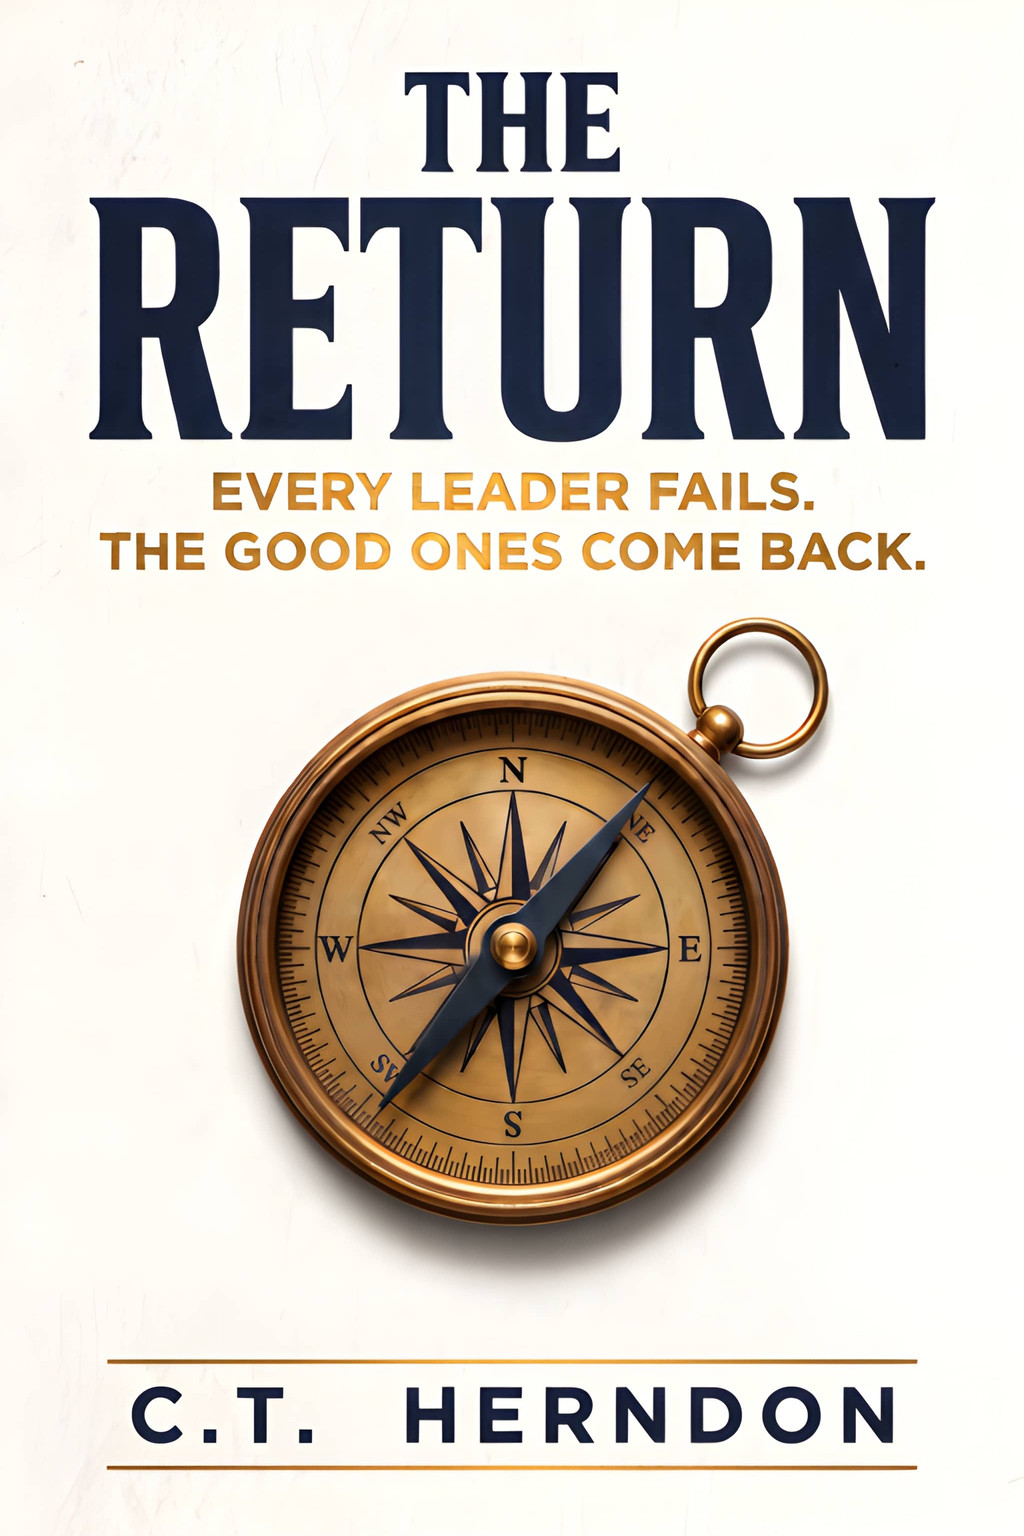
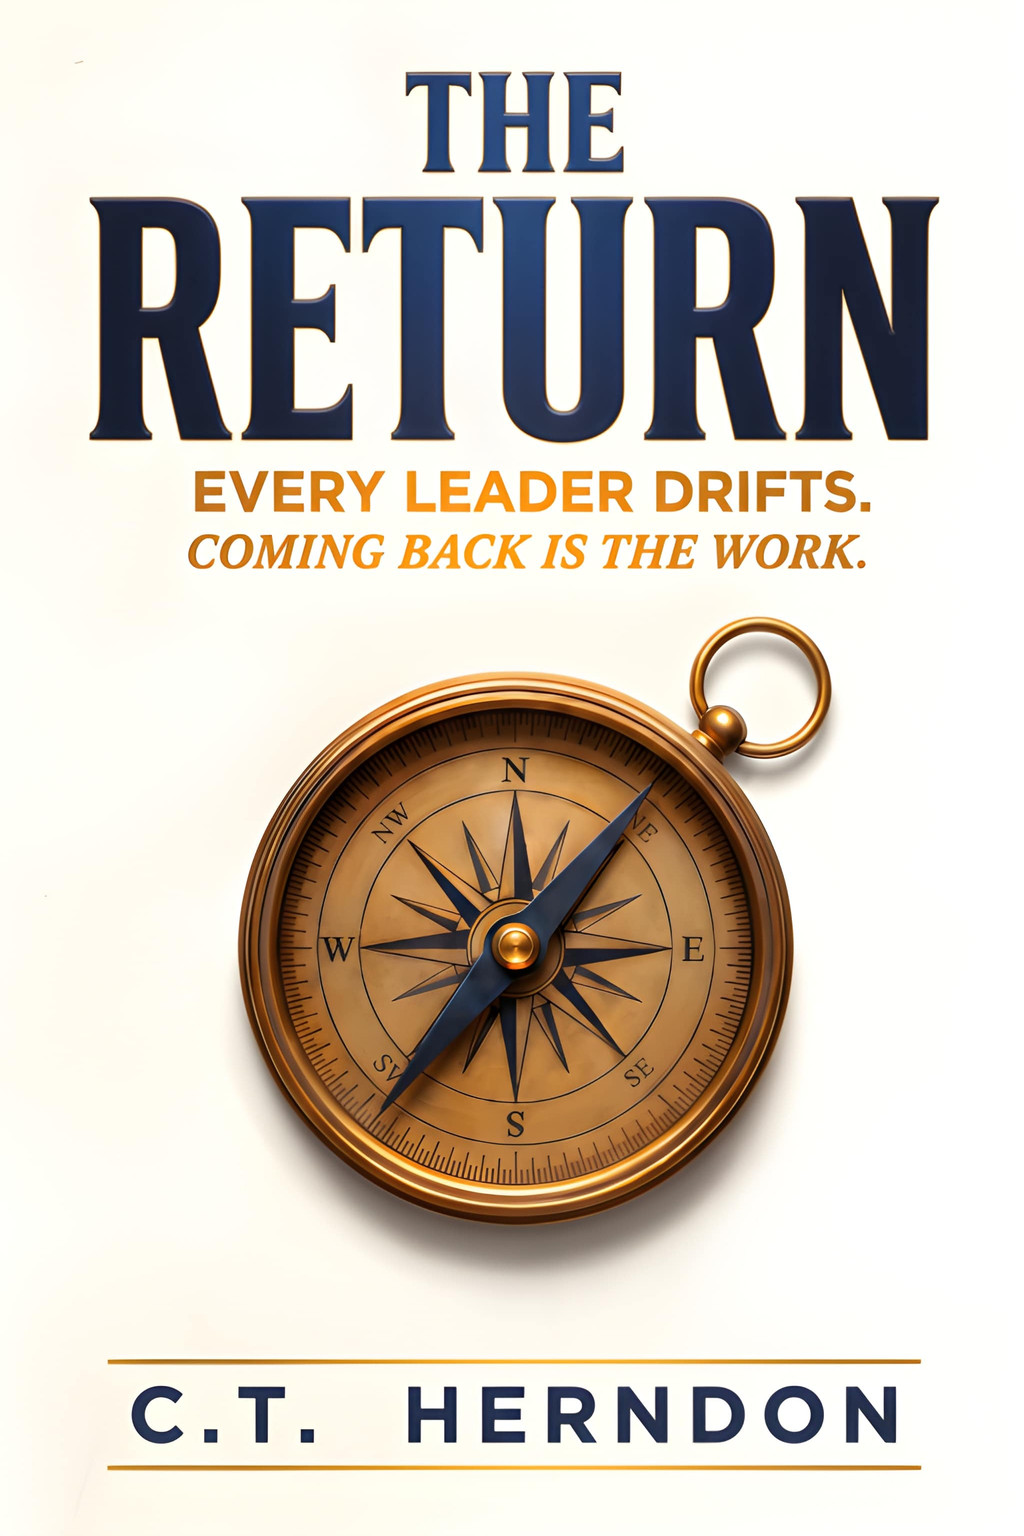
The Return: every leader drifts, and coming back is the work
OPERATOR, 2026-10-08. The subtitle changed with the final cover art. "Every Leader Fails. The Good
Ones Come Back." becomes "Every Leader Drifts. Coming Back Is the Work." His reasoning, recorded in
the book repository: "fails" was too big a word for a title, drift is the condition the whole series
argues is universal, and the return is the work.

FIVE PLACES ON THE PAGE: the hero line, the page description, the Open Graph title, the cover alt
text, and the guard, which now also fails if the retired subtitle ever reappears.

THE COVER is the book repository's committed front_art_2026-10-08.jpg, 2048 x 3068 and full colour,
downscaled to this site's 1024 x 1536. Checked visually after installing: the second line reads
COMING BACK IS THE WORK in italic, as on the printed cover. The 7 October cover is archived rather
than overwritten.

THE SUBTITLE WAS NOT THE ONLY THING THAT MOVED, and this is the part worth recording. The same
commit in the book rewrote its thesis sentence: "honest enough to fail in plain sight" became
"honest enough to name their own drift in plain sight". This page quotes that sentence twice, in
"What it argues" and in the social description, so both would have misquoted the book from today
while looking entirely correct. Corrected, and then every quotation on the page was checked against
the current built manuscript: all five appear verbatim.

THAT RISK IS STRUCTURAL AND WILL RECUR. This page quotes a living document maintained in another
[…]

Changed region(s): [[0.0938, 0.0312, 0.9375, 0.8125], [0.375, 0.9062, 0.875, 0.9688], [0.125, 0.875, 0.2812, 0.9688]]

diff --git a/app/the-return/page.tsx b/app/the-return/page.tsx
@@ -24,11 +24,11 @@ import type { Metadata } from "next";
 export const metadata: Metadata = {
   title: "The Return",
   description:
-    "The Return: Every Leader Fails. The Good Ones Come Back. A book on leadership by C.T. Herndon, drawn from the first three volumes of A Living Philosophy.",
+    "The Return: Every Leader Drifts. Coming Back Is the Work. A book on leadership by C.T. Herndon, drawn from the first three volumes of A Living Philosophy.",
   openGraph: {
-    title: "The Return: Every Leader Fails. The Good Ones Come Back.",
+    title: "The Return: Every Leader Drifts. Coming Back Is the Work.",
     description:
-      "A book on leadership by C.T. Herndon. Not an infallible leader, but a real one, honest enough to fail in plain sight and disciplined enough to return.",
+      "A book on leadership by C.T. Herndon. Not an infallible leader, but a real one, honest enough to name their own drift in plain sight and disciplined enough to return.",
     type: "book",
   },
 };
@@ -45,7 +45,7 @@ export default function TheReturn() {
             The Return
           </h1>
           <p className="mt-4 font-serif text-xl font-light leading-relaxed text-ink sm:text-2xl">
-            Every leader fails. The good ones come back.
+            Every leader drifts. Coming back is the work.
           </p>
           <p className="mt-6 max-w-xl leading-relaxed text-muted">
             A book about what a team is actually watching: whether you turn up when
@@ -63,7 +63,7 @@ export default function TheReturn() {
           <div className="relative aspect-[2/3] overflow-hidden rounded-xl border border-line shadow-md">
             <Image
               src="/the-return/cover.jpg"
-              alt="Cover of The Return: Every Leader Fails. The Good Ones Come Back., by C.T. Herndon"
+              alt="Cover of The Return: Every Leader Drifts. Coming Back Is the Work., by C.T. Herndon"
               fill
               sizes="(max-width: 640px) 224px, 280px"
               className="object-cover"
@@ -78,7 +78,8 @@ export default function TheReturn() {
         <p className="mt-4 max-w-2xl font-serif text-xl font-light leading-relaxed text-ink">
           Good leadership is a whole person meeting a whole team, in small, real
           acts carried daily. Not an infallible leader, but a real one, honest
-          enough to fail in plain sight and disciplined enough to return.
+          enough to name their own drift in plain sight and disciplined enough to
+          return.
         </p>
         <p className="mt-5 max-w-2xl leading-relaxed text-muted">
           Fourteen chapters move from the compass a leader steers by to what they

diff --git a/tests/test_books_first.py b/tests/test_books_first.py
@@ -862,7 +862,10 @@ def test_the_return_has_its_own_page():
     assert page.exists(), "The Return has no page"
     src = page.read_text(encoding="utf-8")
     assert "The Return" in src
-    assert "Every leader fails" in src, "the subtitle is the argument; it belongs on the page"
+    # SUBTITLE CHANGED 2026-10-08: "Every Leader Fails. The Good Ones Come Back." became
+    # "Every Leader Drifts. Coming Back Is the Work." Drift is the condition; the return is the work.
+    assert "Every leader drifts" in src, "the subtitle is the argument; it belongs on the page"
+    assert "Every leader fails" not in src, "the retired subtitle is still on the page"
 
     cover = ROOT / "public" / "the-return" / "cover.jpg"
     assert cover.exists(), "The Return's cover art is missing"
